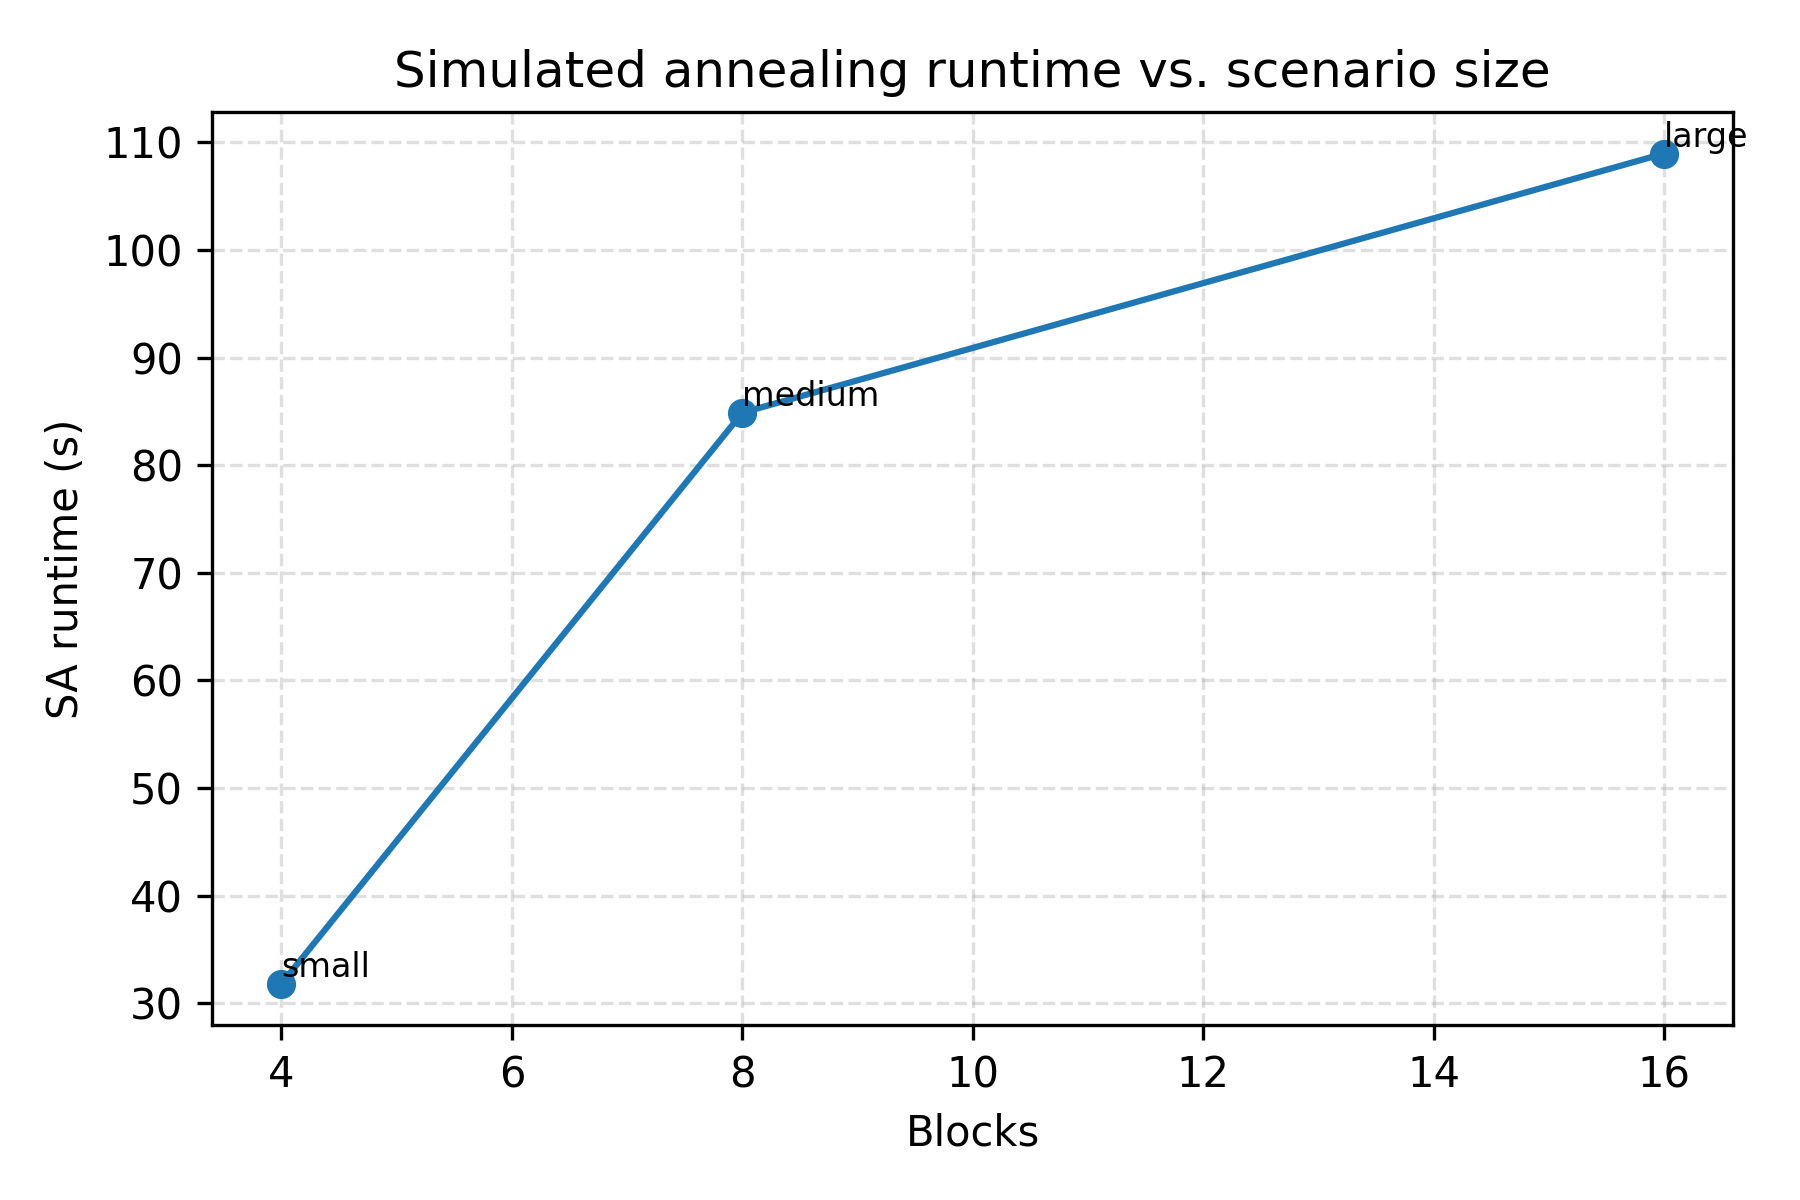
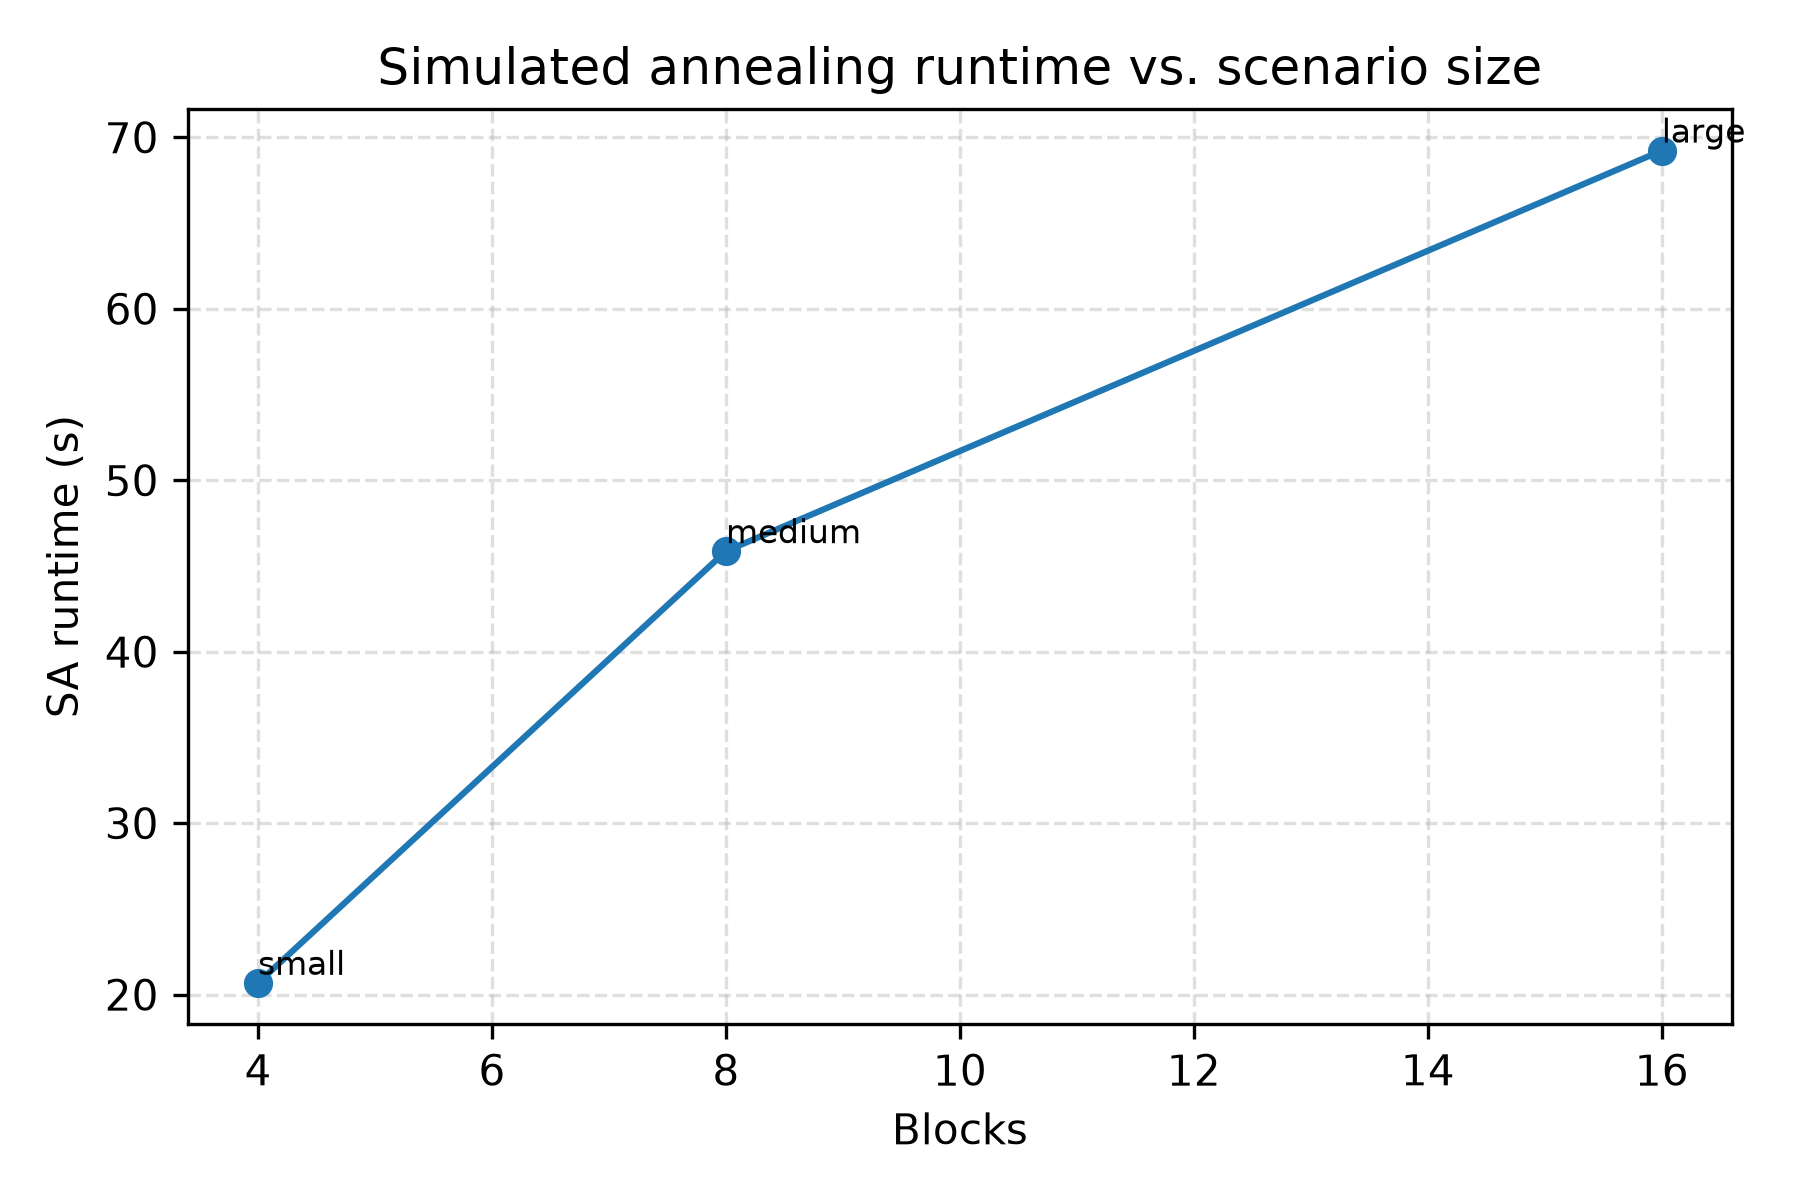
R2 numbers: copy final FHOPS 1.0.1 SoftwareX tables and figures (fhops d72b79f, assets run 2026-10-08T12:31:05Z) (#20)

diff --git a/assets/data/tables/tuning_leaderboard.tex b/assets/data/tables/tuning_leaderboard.tex
@@ -1,10 +1,11 @@
-\begin{tabular}{llllll}
+\begin{tabular}{>{\raggedright\arraybackslash}p{0.13\linewidth}lrrr>{\raggedright\arraybackslash\footnotesize}p{0.08\linewidth}>{\raggedright\arraybackslash\footnotesize}p{0.22\linewidth}}
 \toprule
-Scenario & Tuner & Best Objective & $\Delta$ vs SA default & Mean Runtime (s) & Key Settings \\
+Scenario & Tuner & \begin{tabular}[b]{@{}r@{}}Best\\objective\end{tabular} & \begin{tabular}[b]{@{}r@{}}$\Delta$ vs\\SA default\end{tabular} & \begin{tabular}[b]{@{}r@{}}Mean\\runtime (s)\end{tabular} & Budget & Key settings \\
 \midrule
-Tiny7 (ground-based) & Ils & 4349.26 & 42.74 & 1.68 &  \\
-Small21 (ground-based) & Tabu & 15637.80 & 10.23 & 18.15 &  \\
-Med42 (ground-based) & Bayes & -35485.30 & -8214.08 & 5.29 & batch\_size=3; iters=120; operators=(block\_insertion:0.6863560323017388, coverage\_injection:1.4580994147680832, cross\_exchange:0.8771444893592488) \\
-Synthetic-small & Bayes & -75039.79 & 0.00 & 1.39 & batch\_size=3; iters=120; operators=(block\_insertion:1.1026295381657825, coverage\_injection:1.4389379395711261, cross\_exchange:0.8462129202489219) \\
+Tiny7 (ground-based) & Bayes & 4338.52 & 42.74 & 0.33 & 8 trials $\times$ 120 iters & batch\_size=3; operator weights block\_insertion=1.44, coverage\_injection=0.65, cross\_exchange=0.72 \\
+Small21 (ground-based) & ILS & 15584.30 & 0.14 & 3.64 & 1 run $\times$ 160 iters & perturbation\_strength=3; stall\_limit=10 \\
+Med42 (ground-based) & Tabu & 23139.82 & -990.50 & 41.49 & 1 run $\times$ 900 iters & stall\_limit=150 \\
+Synthetic-small & Bayes & -39.79 & 0.00 & 0.97 & 8 trials $\times$ 120 iters & batch\_size=3; operator weights block\_insertion=1.10, coverage\_injection=1.44, cross\_exchange=0.85 \\
 \bottomrule
+\multicolumn{7}{p{0.95\linewidth}}{\footnotesize Budget: tuning runs of the best tuner (SA iterations per Bayesian trial, grid configuration or random run; ILS/Tabu iterations). $\Delta$ = best tuned objective minus the SA default benchmark objective, whose budget is far larger (SA iterations: 8000 (Tiny7), 4000 (Small21), 20000 (Med42), 6000 (Synthetic-small)); objectives are maximised. Ties (same best objective): Tiny7 (5 tuners), Synthetic-small (5 tuners); the first tuner in alphabetical order is listed.} \\
 \end{tabular}

diff --git a/manuscript/sections/includes/tuning_leaderboard.tex b/manuscript/sections/includes/tuning_leaderboard.tex
@@ -1,10 +1,11 @@
-\begin{tabular}{llllll}
+\begin{tabular}{>{\raggedright\arraybackslash}p{0.13\linewidth}lrrr>{\raggedright\arraybackslash\footnotesize}p{0.08\linewidth}>{\raggedright\arraybackslash\footnotesize}p{0.22\linewidth}}
 \toprule
-Scenario & Tuner & Best Objective & $\Delta$ vs SA default & Mean Runtime (s) & Key Settings \\
+Scenario & Tuner & \begin{tabular}[b]{@{}r@{}}Best\\objective\end{tabular} & \begin{tabular}[b]{@{}r@{}}$\Delta$ vs\\SA default\end{tabular} & \begin{tabular}[b]{@{}r@{}}Mean\\runtime (s)\end{tabular} & Budget & Key settings \\
 \midrule
-Tiny7 (ground-based) & Ils & 4349.26 & 42.74 & 1.68 &  \\
-Small21 (ground-based) & Tabu & 15637.80 & 10.23 & 18.15 &  \\
-Med42 (ground-based) & Bayes & -35485.30 & -8214.08 & 5.29 & batch\_size=3; iters=120; operators=(block\_insertion:0.6863560323017388, coverage\_injection:1.4580994147680832, cross\_exchange:0.8771444893592488) \\
-Synthetic-small & Bayes & -75039.79 & 0.00 & 1.39 & batch\_size=3; iters=120; operators=(block\_insertion:1.1026295381657825, coverage\_injection:1.4389379395711261, cross\_exchange:0.8462129202489219) \\
+Tiny7 (ground-based) & Bayes & 4338.52 & 42.74 & 0.33 & 8 trials $\times$ 120 iters & batch\_size=3; operator weights block\_insertion=1.44, coverage\_injection=0.65, cross\_exchange=0.72 \\
+Small21 (ground-based) & ILS & 15584.30 & 0.14 & 3.64 & 1 run $\times$ 160 iters & perturbation\_strength=3; stall\_limit=10 \\
+Med42 (ground-based) & Tabu & 23139.82 & -990.50 & 41.49 & 1 run $\times$ 900 iters & stall\_limit=150 \\
+Synthetic-small & Bayes & -39.79 & 0.00 & 0.97 & 8 trials $\times$ 120 iters & batch\_size=3; operator weights block\_insertion=1.10, coverage\_injection=1.44, cross\_exchange=0.85 \\
 \bottomrule
+\multicolumn{7}{p{0.95\linewidth}}{\footnotesize Budget: tuning runs of the best tuner (SA iterations per Bayesian trial, grid configuration or random run; ILS/Tabu iterations). $\Delta$ = best tuned objective minus the SA default benchmark objective, whose budget is far larger (SA iterations: 8000 (Tiny7), 4000 (Small21), 20000 (Med42), 6000 (Synthetic-small)); objectives are maximised. Ties (same best objective): Tiny7 (5 tuners), Synthetic-small (5 tuners); the first tuner in alphabetical order is listed.} \\
 \end{tabular}

diff --git a/assets/data/tables/solver_performance.tex b/assets/data/tables/solver_performance.tex
@@ -2,17 +2,17 @@
 \toprule
 Scenario & Solver & Objective & Runtime (s) & Assignments & Production (m³) & Mobilisation Cost (CAD) \\
 \midrule
-Tiny7 (ground-based) & SA & 4306.52 & 32.71 & 23 & 4414.70 & 585.64 \\
-Tiny7 (ground-based) & ILS & 4349.26 & 46.14 & 23 & 4414.70 & 372.68 \\
-Tiny7 (ground-based) & TABU & 4349.26 & 292.53 & 23 & 4414.70 & 372.68 \\
-Small21 (ground-based) & SA & 15627.57 & 77.94 & 90 & 15966.97 & 1977.32 \\
-Small21 (ground-based) & ILS & 15638.08 & 86.02 & 90 & 15966.97 & 1924.56 \\
-Small21 (ground-based) & TABU & 15660.01 & 414.78 & 90 & 15966.97 & 2243.76 \\
-Med42 (ground-based) & SA & -27271.22 & 1245.04 & 211 & 32071.86 & 10564.68 \\
-Med42 (ground-based) & ILS & -33452.28 & 1791.73 & 213 & 33025.19 & 10682.68 \\
-Med42 (ground-based) & TABU & -46063.73 & 7391.10 & 212 & 30026.28 & 9846.12 \\
-Synthetic-small & SA & -75039.79 & 96.54 & 122 & 0.00 & 0.00 \\
-Synthetic-small & ILS & -75039.79 & 62.54 & 122 & 0.00 & 0.00 \\
-Synthetic-small & TABU & -75039.79 & 584.45 & 122 & 0.00 & 0.00 \\
+Tiny7 (ground-based) & SA & 4295.77 & 25.13 & 23 & 4414.70 & 585.64 \\
+Tiny7 (ground-based) & ILS & 4338.52 & 28.00 & 23 & 4414.70 & 372.68 \\
+Tiny7 (ground-based) & TABU & 4338.52 & 245.50 & 23 & 4414.70 & 372.68 \\
+Small21 (ground-based) & SA & 15584.16 & 53.06 & 90 & 15966.97 & 1871.80 \\
+Small21 (ground-based) & ILS & 15605.94 & 56.32 & 90 & 15966.97 & 1764.12 \\
+Small21 (ground-based) & TABU & 15595.28 & 315.61 & 90 & 15966.97 & 1815.92 \\
+Med42 (ground-based) & SA & 24130.32 & 911.22 & 214 & 32984.91 & 7292.52 \\
+Med42 (ground-based) & ILS & 24329.17 & 1212.70 & 214 & 33361.75 & 8402.20 \\
+Med42 (ground-based) & TABU & 24163.37 & 5387.72 & 218 & 33463.63 & 9141.32 \\
+Synthetic-small & SA & -39.79 & 62.53 & 69 & 0.00 & 0.00 \\
+Synthetic-small & ILS & -39.79 & 44.46 & 69 & 0.00 & 0.00 \\
+Synthetic-small & TABU & -39.79 & 460.96 & 69 & 0.00 & 0.00 \\
 \bottomrule
 \end{tabular}

diff --git a/manuscript/sections/includes/solver_performance.tex b/manuscript/sections/includes/solver_performance.tex
@@ -2,17 +2,17 @@
 \toprule
 Scenario & Solver & Objective & Runtime (s) & Assignments & Production (m³) & Mobilisation Cost (CAD) \\
 \midrule
-Tiny7 (ground-based) & SA & 4306.52 & 32.71 & 23 & 4414.70 & 585.64 \\
-Tiny7 (ground-based) & ILS & 4349.26 & 46.14 & 23 & 4414.70 & 372.68 \\
-Tiny7 (ground-based) & TABU & 4349.26 & 292.53 & 23 & 4414.70 & 372.68 \\
-Small21 (ground-based) & SA & 15627.57 & 77.94 & 90 & 15966.97 & 1977.32 \\
-Small21 (ground-based) & ILS & 15638.08 & 86.02 & 90 & 15966.97 & 1924.56 \\
-Small21 (ground-based) & TABU & 15660.01 & 414.78 & 90 & 15966.97 & 2243.76 \\
-Med42 (ground-based) & SA & -27271.22 & 1245.04 & 211 & 32071.86 & 10564.68 \\
-Med42 (ground-based) & ILS & -33452.28 & 1791.73 & 213 & 33025.19 & 10682.68 \\
-Med42 (ground-based) & TABU & -46063.73 & 7391.10 & 212 & 30026.28 & 9846.12 \\
-Synthetic-small & SA & -75039.79 & 96.54 & 122 & 0.00 & 0.00 \\
-Synthetic-small & ILS & -75039.79 & 62.54 & 122 & 0.00 & 0.00 \\
-Synthetic-small & TABU & -75039.79 & 584.45 & 122 & 0.00 & 0.00 \\
+Tiny7 (ground-based) & SA & 4295.77 & 25.13 & 23 & 4414.70 & 585.64 \\
+Tiny7 (ground-based) & ILS & 4338.52 & 28.00 & 23 & 4414.70 & 372.68 \\
+Tiny7 (ground-based) & TABU & 4338.52 & 245.50 & 23 & 4414.70 & 372.68 \\
+Small21 (ground-based) & SA & 15584.16 & 53.06 & 90 & 15966.97 & 1871.80 \\
+Small21 (ground-based) & ILS & 15605.94 & 56.32 & 90 & 15966.97 & 1764.12 \\
+Small21 (ground-based) & TABU & 15595.28 & 315.61 & 90 & 15966.97 & 1815.92 \\
+Med42 (ground-based) & SA & 24130.32 & 911.22 & 214 & 32984.91 & 7292.52 \\
+Med42 (ground-based) & ILS & 24329.17 & 1212.70 & 214 & 33361.75 & 8402.20 \\
+Med42 (ground-based) & TABU & 24163.37 & 5387.72 & 218 & 33463.63 & 9141.32 \\
+Synthetic-small & SA & -39.79 & 62.53 & 69 & 0.00 & 0.00 \\
+Synthetic-small & ILS & -39.79 & 44.46 & 69 & 0.00 & 0.00 \\
+Synthetic-small & TABU & -39.79 & 460.96 & 69 & 0.00 & 0.00 \\
 \bottomrule
 \end{tabular}
